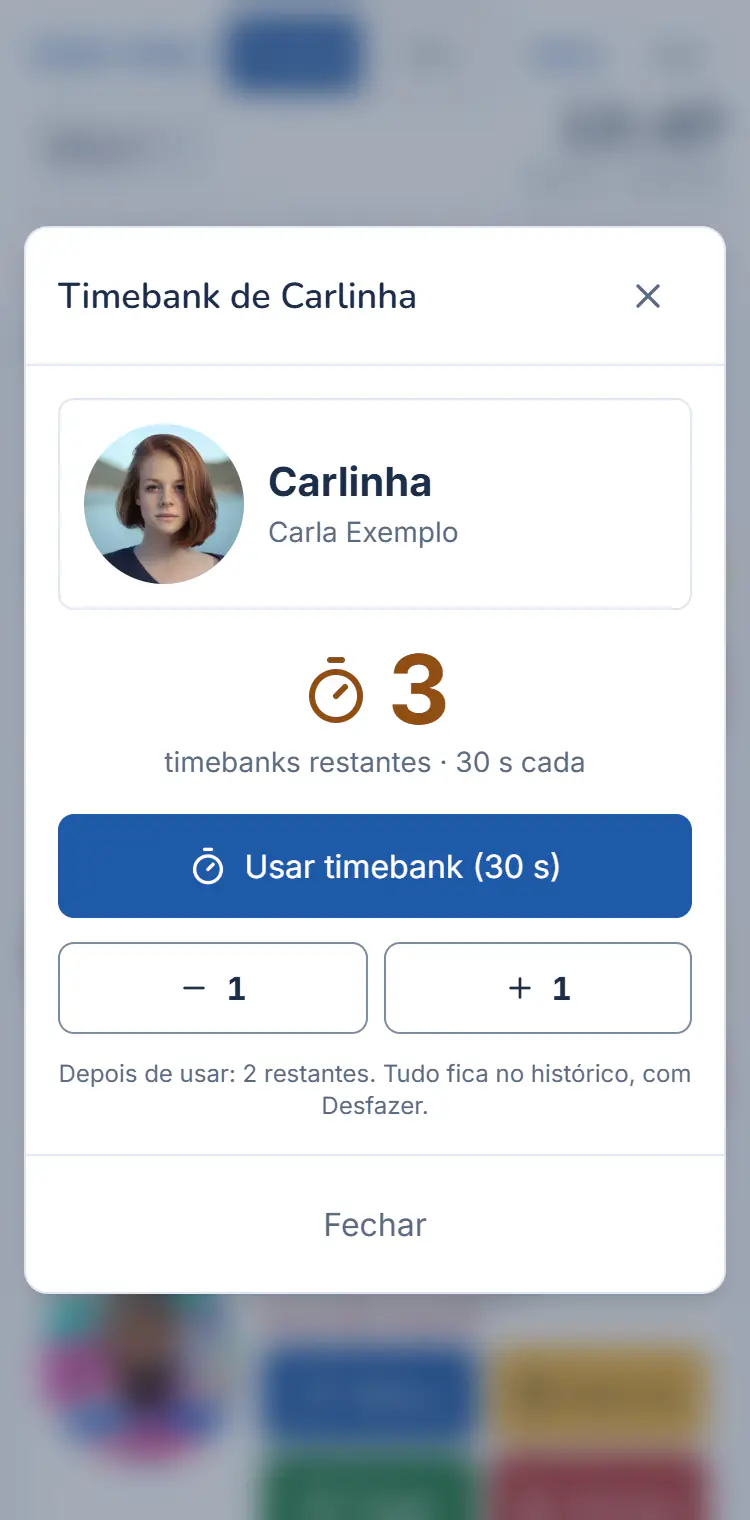
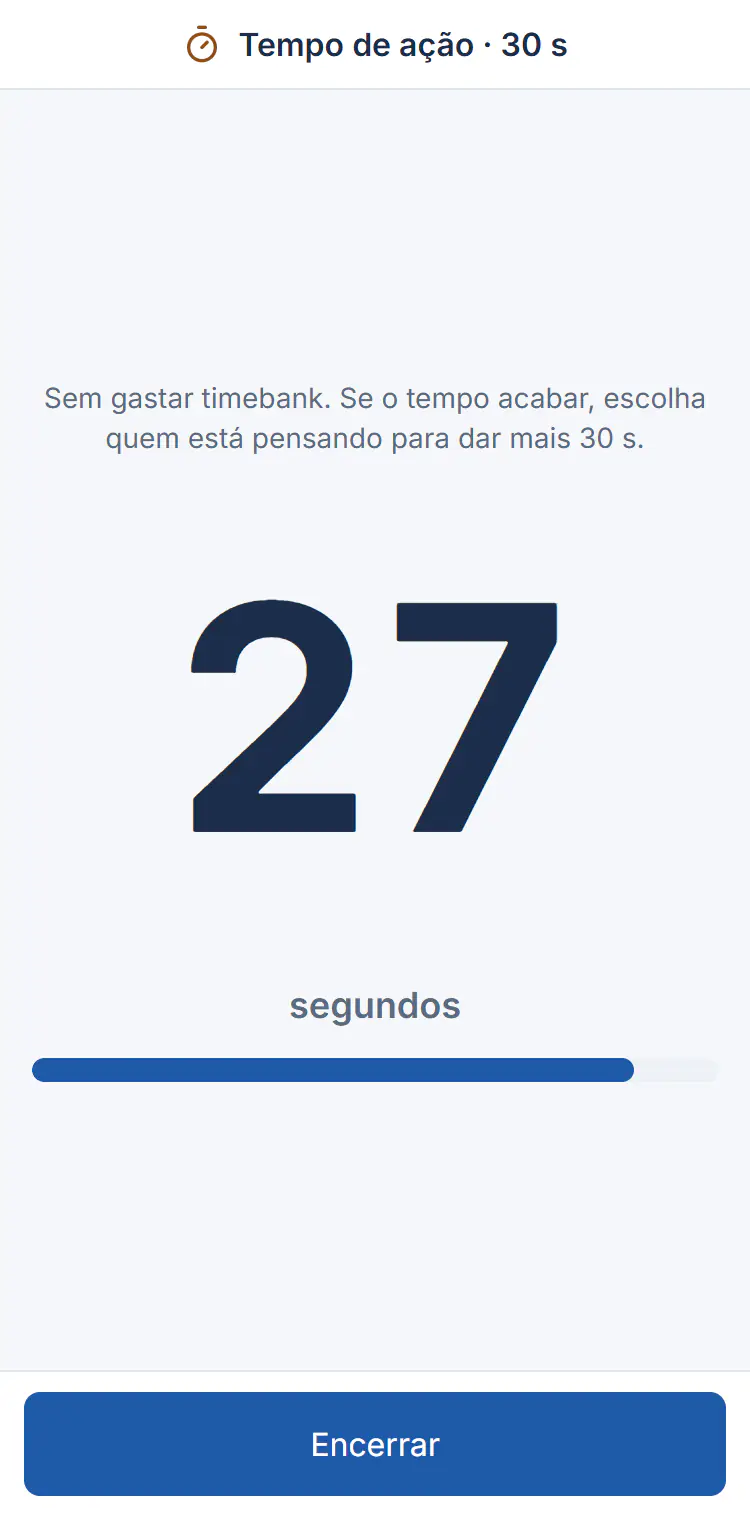
Manual: timebank pelo cronômetro do terminal
Passos "Timebank" e "A contagem do timebank" do módulo do terminal
reescritos para o botão "Tempo" (tempo de ação sem gastar, "Quem está
pensando?", "Usar mais 1") e prints refeitos: o tempo de ação aos 27 s e a
lista "Quem está pensando?" com um jogador sem timebank.

diff --git a/src/pages/manual/manual.content.ts b/src/pages/manual/manual.content.ts
@@ -488,22 +488,22 @@ export const MANUAL_MODULES = [
           {
             title: 'Timebank',
             text: [
-              'Com o timebank ligado no torneio, cada card mostra o ⏱ com quantos timebanks o jogador ainda tem. Toque nele: aparecem Usar timebank, −1 e +1 (para tirar ou dar um timebank; dá para passar do número inicial).',
-              'O organizador liga o timebank no cartão Timebank do torneio (ou deixa como padrão na estrutura de blinds), com quantos timebanks cada jogador ganha e de quantos segundos. Torneio sem timebank não mostra nada disso.',
+              'Com o timebank ligado no torneio, o topo do terminal tem o botão Tempo, ao lado de Anterior, Pausar e Próximo. Quando alguém começar a pensar, toque nele: o celular conta o tempo de ação em tela cheia, sem gastar nenhum timebank. Se o jogador decidir antes, toque em Encerrar.',
+              'O organizador liga o timebank no cartão Timebank do torneio (ou deixa como padrão na estrutura de blinds): quantos timebanks cada jogador ganha e o tempo de ação, em segundos. Torneio sem timebank não mostra nada disso.',
             ],
-            tip: 'O ⏱ também aparece na Ficha e em Jogadores (no Mais). No painel, a aba Jogadores tem o −1 e o +1; a contagem é só no terminal.',
+            tip: 'Quantos timebanks cada jogador ainda tem fica na Ficha dele, com −1 e +1 para tirar ou dar um (no terminal e na aba Jogadores do painel).',
             image: 'terminal-timebank',
-            imageAlt: 'Janela Timebank de Carlinha com a foto, 3 timebanks restantes de 30 segundos, o botão Usar timebank e os botões −1 e +1',
+            imageAlt: 'Cronômetro em tela cheia com Tempo de ação · 30 s no topo, os segundos andando, a barra azul e o botão Encerrar',
           },
           {
             title: 'A contagem do timebank',
             text: [
-              'Em Usar timebank, o celular vira um relógio em tela cheia: foto, nome e os segundos andando, com bipe e vibração aos 10 segundos e no zero. Toque em Encerrar para voltar à mesa.',
-              'A contagem é do celular e não para se a internet cair. Se o uso não for registrado, aparece Não registrado — Tentar de novo. O uso fica no Histórico, com o seu nome e Desfazer (o timebank volta para o jogador).',
+              'Se o tempo de ação acabar, o celular apita, vibra e pergunta Quem está pensando?, com os jogadores da mesa e quantos timebanks cada um tem (quem não tem nenhum fica apagado). Toque no jogador: gasta 1 timebank dele e conta de novo o mesmo tempo, como Timebank de Fulano. Não usar timebank fecha sem gastar nada.',
+              'Acabou de novo? Usar mais 1 timebank gasta outro, se ele tiver; senão aparece Sem timebank — tempo esgotado. A contagem é do celular e não para se a internet cair: se o uso não for registrado, aparece Não registrado — Tentar de novo. Cada uso fica no Histórico, com o seu nome e Desfazer (o timebank volta para o jogador).',
             ],
             tip: 'No iPhone não há vibração: fica só o bipe. Deixe o som do celular ligado.',
             image: 'terminal-timebank-contagem',
-            imageAlt: 'Contagem do timebank em tela cheia com a foto da Carlinha, 27 segundos, a barra laranja, Registrado · 2 restantes e o botão Encerrar',
+            imageAlt: 'Tela Quem está pensando? com os jogadores da mesa pelo lugar, cada um com a foto, o nome e quantos timebanks tem, um deles apagado com sem timebank, e o botão Não usar timebank',
           },
         ],
       },
